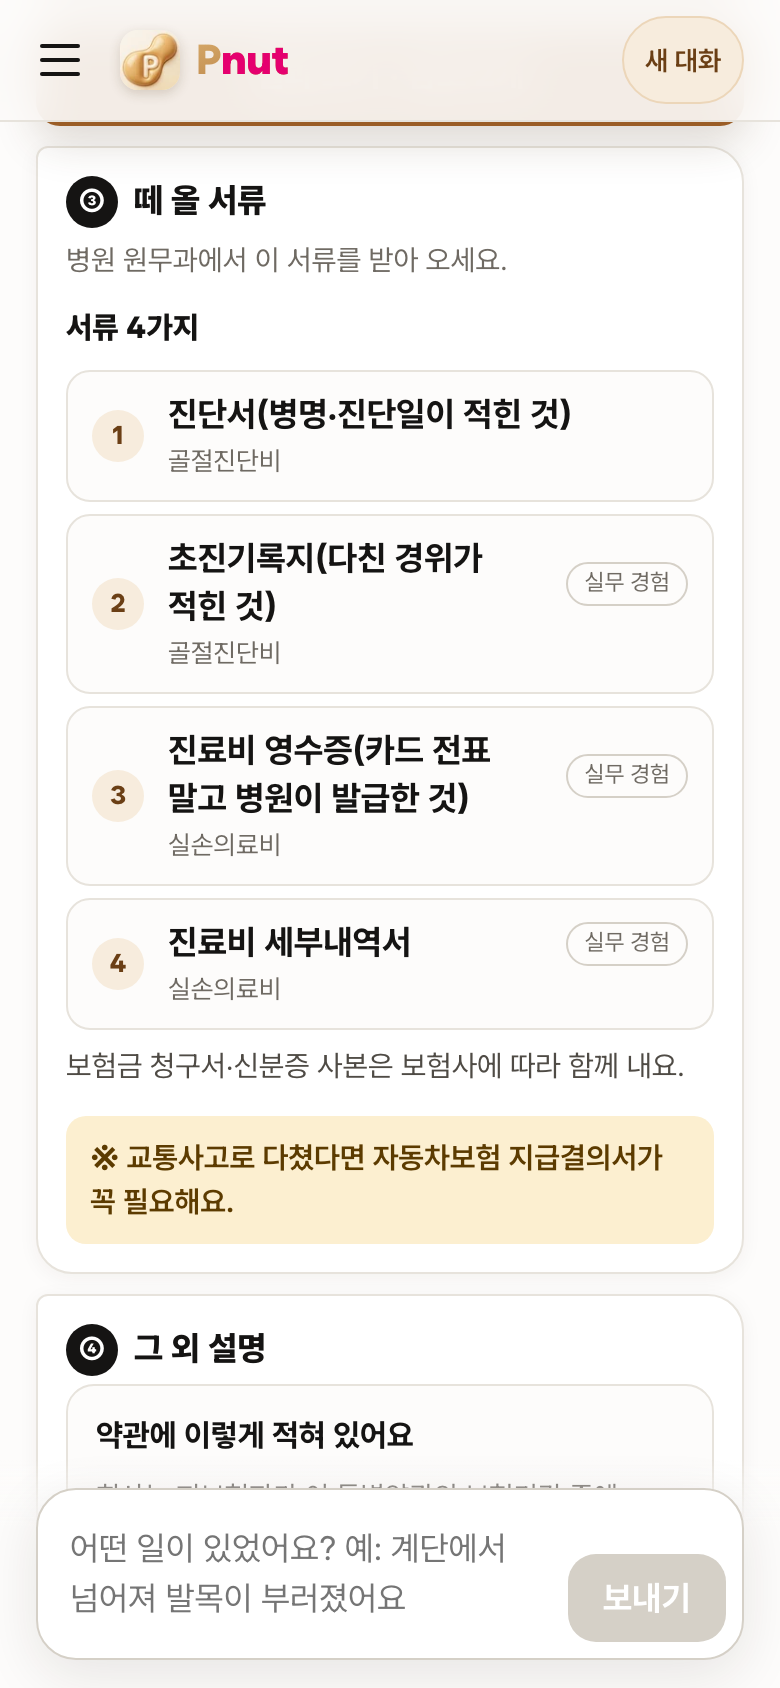
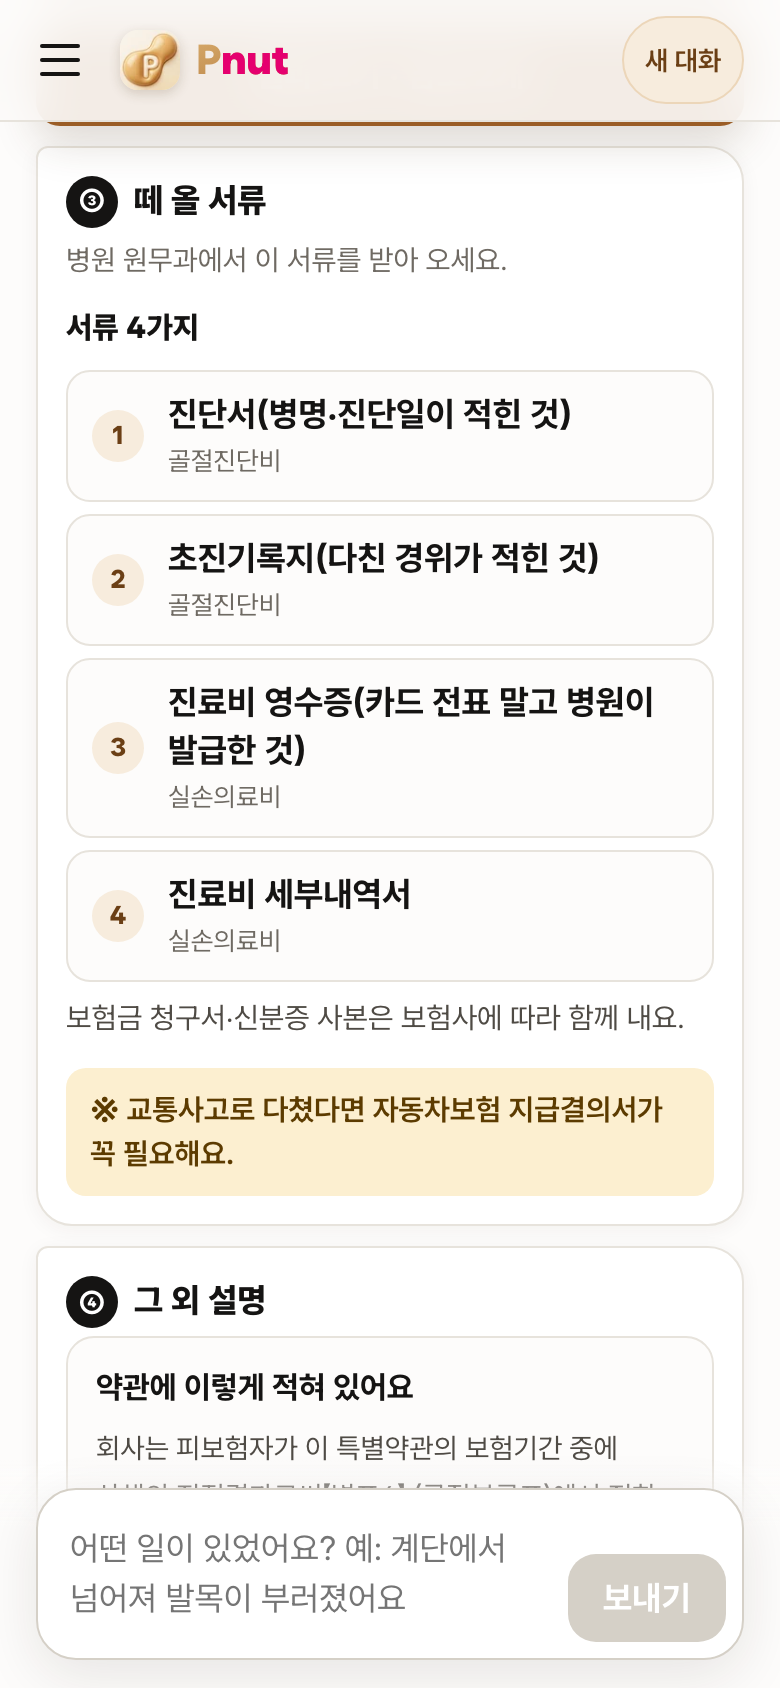
docs: 화면을 foundshu-00122로 다시 찍음(서류 줄 출처 알약 제거, 실손 계산 단추 위치)

diff --git a/README.md b/README.md
@@ -24,7 +24,7 @@
 ![소개 화면. 큰 제목, 책 읽는 땅콩 캐릭터, 흐르는 예시 질문 단추, 휴대폰 틀 안의 실제 답 화면](docs/images/intro.png)
 
 <p>
-  <img src="docs/images/answer-fracture.png" width="200" alt="다리 골절 질문의 답. 결론 한 줄과 확인해 볼 담보(골절진단비·실손의료비)가 체크된 채 나온 화면">
+  <img src="docs/images/answer-fracture.png" width="200" alt="다리 골절 질문의 답. 확인해 볼 담보(골절진단비·실손의료비)가 체크된 채 나오고 실손 줄 아래에 실손 보험금 계산 단추">
   <img src="docs/images/answer-docs.png" width="200" alt="결과 보기를 누른 뒤 떼 올 서류 네 가지와 각 서류를 쓰는 담보, 교통사고면 지급결의서 안내">
   <img src="docs/images/answer-crown.png" width="200" alt="크라운 질문의 답. 치과크라운치료 담보와 실손이 보통 안 나오는 이유, 1세대 실손이라면 다쳐서 받은 치과 치료는 나올 수 있다는 줄">
   <img src="docs/images/clarify.png" width="200" alt="보험금을 적게 받았다는 질문의 답. 무슨 일인지 없어 대표 사유를 선택지로 묻는 화면">
@@ -32,7 +32,7 @@
 
 | 질문 | 답이 보여 주는 것 |
 |---|---|
-| 다리 부러졌어요 | 첫 줄 "이 일이면 진단비·실손의료비를 확인해 보세요"와 함께 골절진단비·실손이 체크된 채 나온다. 깁스·부목·골절수술·철심 제거는 아래 '이런 경우라면'에 둔다. 청구할 담보를 고르고 결과 보기를 누르면 그 담보들의 서류를 겹치지 않게 모아 보인다 |
+| 다리 부러졌어요 | 첫 줄 "이 일이면 진단비·실손의료비를 확인해 보세요"와 함께 골절진단비·실손이 체크된 채 나온다. 실손 줄 아래에서 실손 보험금을 계산해 볼 수 있고, 깁스·부목·골절수술·철심 제거는 아래 '이런 경우라면'에 둔다. 청구할 담보를 고르고 결과 보기를 누르면 그 담보들의 서류를 겹치지 않게 모아 보인다 |
 | 크라운 | 치과크라운치료 담보와, 실손이 보통 보상하지 않는 이유(건강보험이 적용되지 않는 치과 보철)를 표준약관 쪽수와 함께 보인다. 표준화 전에 가입한 1세대 실손은 다쳐서 받은 치과 치료를 보상할 수 있다는 줄을 출처와 함께 붙인다 |
 | 보험금을 적게 받았어요 | 무슨 일인지 없어서 담보를 늘어놓지 않고 대표 사유를 선택지로 묻는다 |
 

diff --git a/docs/screenshots.md b/docs/screenshots.md
@@ -1,6 +1,6 @@
 # 서비스 화면
 
-공개 시연판(2026-11-12, 배포 판 00119)에 예시 질문을 넣어 실제 브라우저로 찍었다. 실제 고객 자료가 아니며, 이미지를 합성하거나 결과 문구를 바꾸지 않았다. 화면별 SHA-256과 찍은 판은 [기록](../evidence/screenshots.json)에 있다.
+공개 시연판(2026-11-12, 배포 판 00122)에 예시 질문을 넣어 실제 브라우저로 찍었다. 실제 고객 자료가 아니며, 이미지를 합성하거나 결과 문구를 바꾸지 않았다. 화면별 SHA-256과 찍은 판은 [기록](../evidence/screenshots.json)에 있다.
 
 찍은 방법:
 - 답 화면은 휴대폰 크기(390×844)로, 보여 줄 칸까지 스크롤한 뒤 화면 그대로 찍었다.
@@ -11,8 +11,8 @@
 | 화면 | 넣은 질문 | 보여 주는 것 | 크기 |
 |---|---|---|---|
 | [소개](images/intro.png) | 없음 | 첫 화면 제목, 책 읽는 땅콩 캐릭터, 흐르는 예시 질문 단추, 휴대폰 틀 안의 실제 답 화면 | 데스크톱 1440px |
-| [골절 답](images/answer-fracture.png) | 다리 부러졌어요 | 결론 한 줄, 질병·상해 판정, 확인해 볼 담보(골절진단비·실손의료비)가 체크된 채 나옴 | 모바일 390px |
-| [떼 올 서류](images/answer-docs.png) | 다리 부러졌어요 → 결과 보기 | 고른 담보의 서류 네 가지와 각 서류를 쓰는 담보, 약관에 없는 실무 지식의 출처 표시, 교통사고면 지급결의서 안내 | 모바일 390px |
+| [골절 답](images/answer-fracture.png) | 다리 부러졌어요 | 확인해 볼 담보(골절진단비·실손의료비)가 체크된 채 나오고, 실손 줄 아래에 실손 보험금 계산 단추, 그 아래 '수술을 받았다면' 같은 조건 줄 | 모바일 390px |
+| [떼 올 서류](images/answer-docs.png) | 다리 부러졌어요 → 결과 보기 | 고른 담보의 서류 네 가지와 각 서류를 쓰는 담보, 교통사고면 지급결의서 안내 | 모바일 390px |
 | [크라운 답](images/answer-crown.png) | 크라운 | 치과크라운치료 담보, 실손이 보통 보상하지 않는 이유와 표준약관 쪽수, 1세대 실손의 예외 줄 | 모바일 390px |
 | [되묻기](images/clarify.png) | 보험금을 적게 받았어요 | 무슨 일인지 없어 담보를 늘어놓지 않고 대표 사유를 선택지로 묻는 화면 | 모바일 390px |
 
